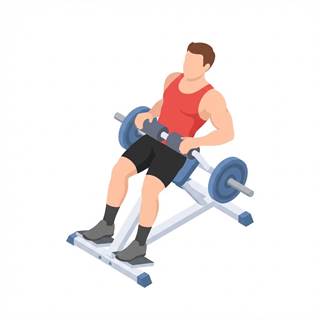
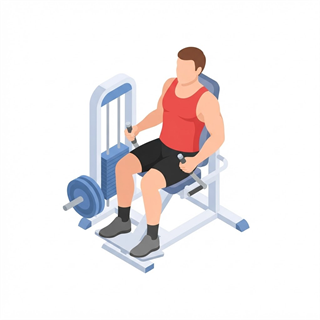
Swap in corrected pictures for 4 wrong-movement exercises, SW cache v31
Inverted Row, Machine Back Extension, Seated Leg Curl, Glute Ham Raise.
Old pictures remain in git history.

Claude-Session: https://claude.ai/code/session_016CU7SwqeNHNhFsYcS67XZu

Changed region(s): [[0.1875, 0.125, 0.8125, 0.9062]]

diff --git a/sw.js b/sw.js
@@ -1,6 +1,6 @@
 /* VibeLift service worker — offline-first PWA.
    Bump CACHE_VERSION on any release to invalidate old caches. */
-const CACHE_VERSION = 'vibelift-v30';
+const CACHE_VERSION = 'vibelift-v31';
 const CORE_CACHE = CACHE_VERSION + '-core';
 const RUNTIME_CACHE = CACHE_VERSION + '-runtime';
 
